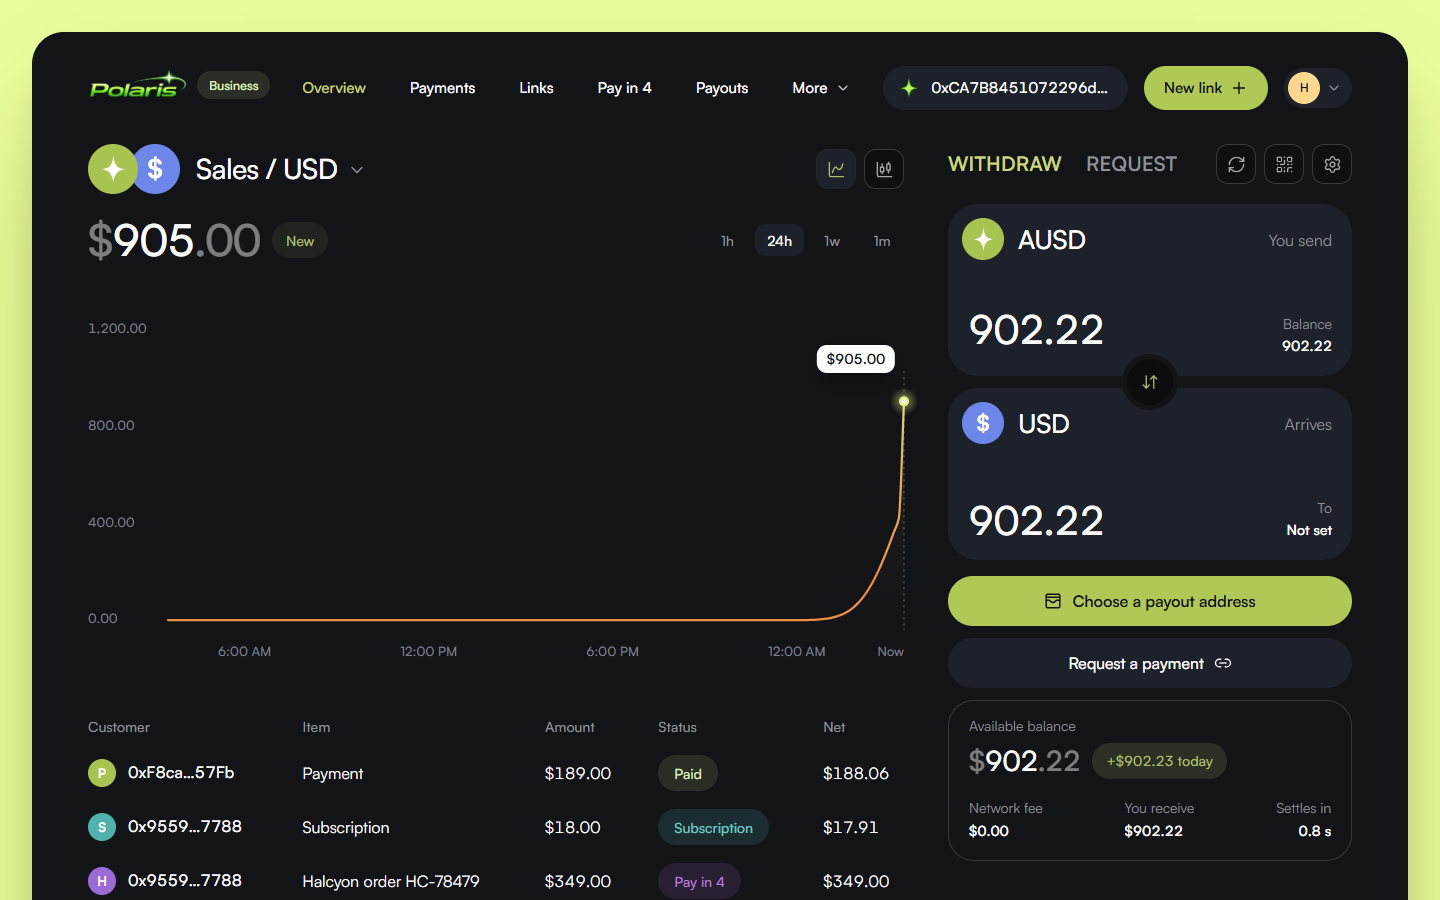
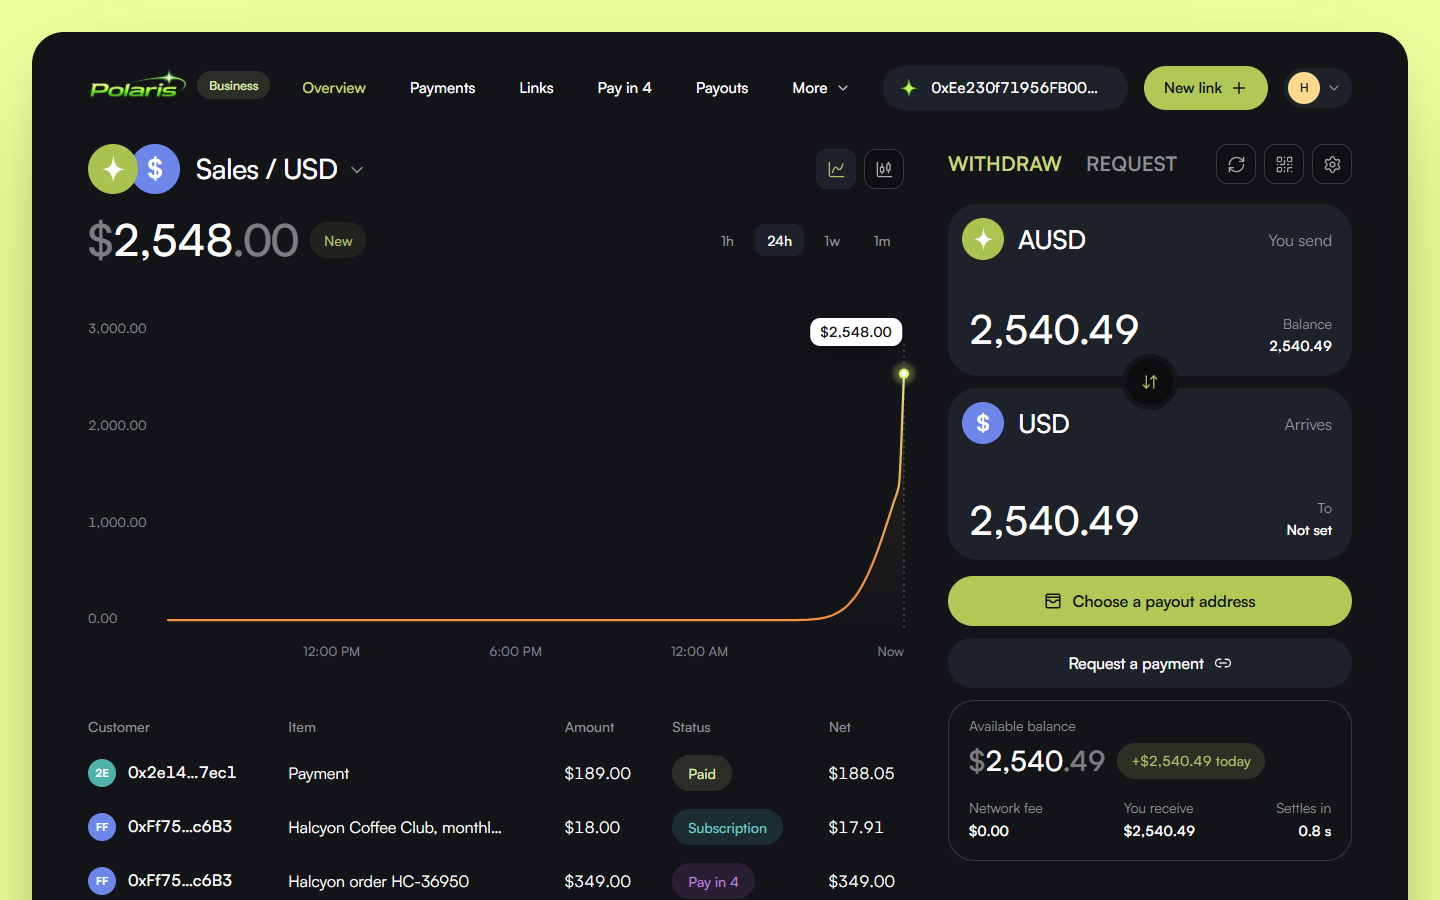
docs/demo: recaptured from a 24-of-24 demo:e2e run, plus the screens the fixes were about
The e2e run on demo:local (DEMO_FAST_PLANS=1) now covers the popup
receipts, a new buyer's one-tap line, a CRE collection, and a dashboard
payment link paid and reopened by a second visitor; the x-* captures show
a send link from a named sender claimed on a new phone, the sender's
'Your link was claimed', Home/Activity/Credit from real moves, and the
dashboard at 1280 and 390. README's tables list them.

diff --git a/README.md b/README.md
@@ -71,7 +71,8 @@ Playwright: `PLAYWRIGHT_MODULE=<path>`, and `CHROMIUM=<chrome.exe>` if its
 browser build isn't installed) drives that run headless and writes the
 screenshots in [`docs/demo`](docs/demo). It finds the run's URLs in
 `.demo/demo.json` (or `APP`, `SHOP`, `BUSINESS`, `RPC` and `FAUCET`). The committed ones are from a run in
-which all 15 steps passed:
+which all 24 steps passed (the `x-*` screens were captured right after, on the
+same run):
 
 | Step | Screenshot |
 |---|---|
@@ -80,13 +81,18 @@ which all 15 steps passed:
 | The Polaris checkout in the shop's popup, Face ID confirm | [`10-paynow-4-app-checkout-popup`](docs/demo/10-paynow-4-app-checkout-popup.png), [`10-paynow-5-app-confirm`](docs/demo/10-paynow-5-app-confirm.png) |
 | The popup posts `completed` and closes; the webhook marks the order paid | [`10-paynow-7-shop-order-paid`](docs/demo/10-paynow-7-shop-order-paid.png) |
 | Pay in 4: the checkout opens on Pay in 4; Raise your limit | [`20-payin4-4-app-checkout-popup`](docs/demo/20-payin4-4-app-checkout-popup.png), [`20-payin4-5-raise-your-limit`](docs/demo/20-payin4-5-raise-your-limit.png) |
-| The CRE underwriting workflow opens a $1,000 line on chain, with its reasons | [`20-payin4-6-limit-raised`](docs/demo/20-payin4-6-limit-raised.png) |
+| The CRE underwriting workflow opens a $1,000 line on chain, with its reasons (the linked account's history, the one from Nansen) | [`20-payin4-6-limit-raised`](docs/demo/20-payin4-6-limit-raised.png) |
+| The popup's receipt stays up until the checkout closes itself | [`10-paynow-6-app-receipt`](docs/demo/10-paynow-6-app-receipt.png), [`20-payin4-8b-app-receipt`](docs/demo/20-payin4-8b-app-receipt.png) |
+| A new buyer on a fresh phone: Pay in 4 → Raise your limit offers **Continue with Face ID**, and one tap creates the account and opens the line | [`25-newbuyer-5-raise-your-limit`](docs/demo/25-newbuyer-5-raise-your-limit.png), [`25-newbuyer-6-limit-raised`](docs/demo/25-newbuyer-6-limit-raised.png) |
+| `DEMO_FAST_PLANS=1`: the CRE collections workflow collects the first instalment a minute after checkout | `.demo/logs/cre-collections.log`; the dashboard's Collections card in [`x-1280-dashboard-overview`](docs/demo/x-1280-dashboard-overview.png) |
 | 4 × $87.92, nothing due today; confirm | [`20-payin4-7-app-checkout-with-line`](docs/demo/20-payin4-7-app-checkout-with-line.png), [`20-payin4-8-app-confirm`](docs/demo/20-payin4-8-app-confirm.png) |
 | The shop's order, paid through a Polaris plan (`plan.opened` webhook) | [`20-payin4-9-shop-order-plan`](docs/demo/20-payin4-9-shop-order-plan.png) |
 | Subscribe: the Coffee Club, monthly, in the Polaris popup; the first month charged on chain | [`50-subscribe-2-app-checkout-popup`](docs/demo/50-subscribe-2-app-checkout-popup.png), [`50-subscribe-4-shop-order`](docs/demo/50-subscribe-4-shop-order.png) |
 | Pay directly with a wallet: `polarispay-sdk` `pay()`, one signature, relayed gas-free | [`60-wallet-1-shop-checkout`](docs/demo/60-wallet-1-shop-checkout.png), [`60-wallet-2-shop-order-paid`](docs/demo/60-wallet-2-shop-order-paid.png) |
 | The buyer's app afterwards: balance, credit line, the plan | [`30-app-home-after`](docs/demo/30-app-home-after.png), [`31-app-credit-line`](docs/demo/31-app-credit-line.png), [`32-app-pay-in-4-plans`](docs/demo/32-app-pay-in-4-plans.png) |
 | The dashboard: payments, Envio feed and credit reasons, the plan, registration | [`40-dashboard-overview`](docs/demo/40-dashboard-overview.png), [`41-dashboard-panels`](docs/demo/41-dashboard-panels.png), [`42-dashboard-payments`](docs/demo/42-dashboard-payments.png), [`43-dashboard-pay-in-4`](docs/demo/43-dashboard-pay-in-4.png), [`44-dashboard-settings-registered`](docs/demo/44-dashboard-settings-registered.png) |
+| A dashboard payment link: paid, the receipt says **Done** and goes Home; the next visitor gets a fresh checkout | [`45-dashboard-share-link`](docs/demo/45-dashboard-share-link.png), [`46-link-3-app-receipt`](docs/demo/46-link-3-app-receipt.png), [`46-link-4-next-visitor`](docs/demo/46-link-4-next-visitor.png) |
+| After the run: a send link from "Maya" (name asked once), claimed on a new phone, "Your link was claimed"; Home, Activity, Credit, the dashboard at 1280 and 390 | [`x-1440-send-confirm`](docs/demo/x-1440-send-confirm.png), [`x-1440-send-link-ready`](docs/demo/x-1440-send-link-ready.png), [`x-390-claim-open`](docs/demo/x-390-claim-open.png), [`x-1440-notifications`](docs/demo/x-1440-notifications.png), [`x-1440-home`](docs/demo/x-1440-home.png), [`x-1440-activity`](docs/demo/x-1440-activity.png), [`x-1440-credit-score`](docs/demo/x-1440-credit-score.png), [`x-1280-dashboard-overview`](docs/demo/x-1280-dashboard-overview.png), [`x-1280-dashboard-payments`](docs/demo/x-1280-dashboard-payments.png), [`x-390-dashboard-payments`](docs/demo/x-390-dashboard-payments.png), [`x-1280-landing`](docs/demo/x-1280-landing.png) |
 
 ### Each app on its own
 
@@ -121,7 +127,7 @@ the API. Each app's README lists its environment.
 | The Polaris app | `pnpm --filter @polaris/app typecheck`, `lint`, `check:signatures`, `build` | 43 signature checks against the Solidity typehashes |
 | Halcyon | `pnpm --filter @polaris/shop test`, `typecheck`, `lint`, `build` | 85 passing; the build proves no dev mock ships |
 | Landing | `pnpm --filter @polaris/landing typecheck`, `build` | builds |
-| End to end | `pnpm demo:local` + `pnpm demo:e2e` | 15 of 15 steps (Pay now, Pay in 4 with CRE underwriting, Subscribe, direct wallet pay, the dashboard); [`docs/demo`](docs/demo) |
+| End to end | `DEMO_FAST_PLANS=1 pnpm demo:local` + `pnpm demo:e2e` | 24 of 24 steps (Pay now, Pay in 4 with CRE underwriting, a new buyer's one-tap line, a CRE collection, Subscribe, direct wallet pay, the dashboard, a dashboard payment link paid and reopened); [`docs/demo`](docs/demo) |
 | | `pnpm --filter @polaris/business e2e:local` | 13 of 13 checks (SDK sessions, relayed Pay now and Pay in 4, verified webhooks, a collection) |
 | | `pnpm --filter @polarispay/contracts e2e:local` | all nine flows; the buyer, sender and freelancer never hold MON |
 | | `pnpm --filter @polaris/cre-workflows e2e:local` | 7 passing (both workflows against real contracts on a local node) |
